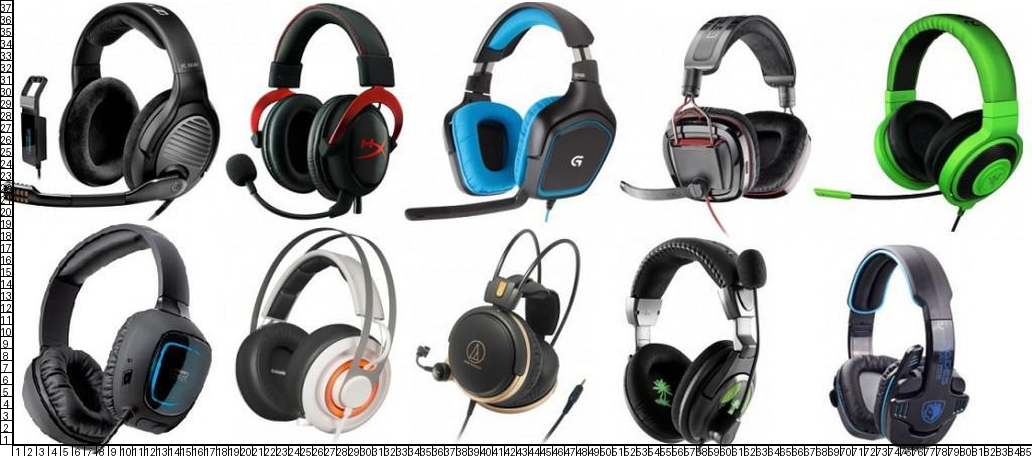
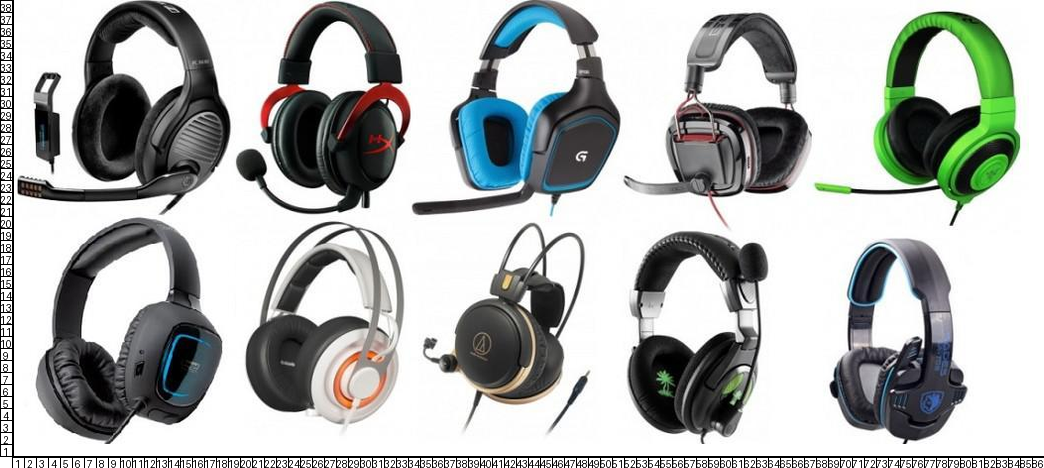
add padding

diff --git a/collab_sketch_with_label.py b/collab_sketch_with_label.py
@@ -1173,6 +1173,7 @@ class SketchApp:
     def _fit_image_to_canvas(self, img: Image.Image, mode: str = "fit", bgcolor=(255, 255, 255)) -> Image.Image:
         """
         Place `img` onto a canvas of size self.grid_size without distortion.
+        Positions image with cell_size padding from left and bottom edges.
 
         mode:
         - "fit"   : letterbox (contain) — keep all of the image, pad with bgcolor
@@ -1183,32 +1184,49 @@ class SketchApp:
         img = ImageOps.exif_transpose(img)  # respect EXIF orientation
         W, H = self.grid_size
         iw, ih = img.size
+        
+        # Calculate available space for image (excluding padding areas)
+        available_width = W - (self.cell_size + self.cell_size)  # Subtract left padding + header
+        available_height = H - (self.cell_size + self.cell_size)  # Subtract bottom padding + header
 
         if mode == "stretch":
-            return img.resize((W, H), Image.LANCZOS).convert("RGB")
+            # Resize to available space and position with padding
+            canvas = Image.new("RGB", (W, H), bgcolor)
+            resized = img.resize((available_width, available_height), Image.LANCZOS).convert("RGB")
+            canvas.paste(resized, (self.cell_size, 0))  # Left padding, top aligned
+            return canvas
 
         if mode == "center":
             canvas = Image.new("RGB", (W, H), bgcolor)
-            x = (W - iw) // 2
-            y = (H - ih) // 2
+            # Center within available space, then add padding offset
+            x = self.cell_size + (available_width - iw) // 2
+            y = (available_height - ih) // 2
             canvas.paste(img.convert("RGB"), (x, y))
             return canvas
 
         if mode == "fill":
-            s = max(W / iw, H / ih)          # cover
+            # Scale to fill available space
+            s = max(available_width / iw, available_height / ih)
             nw, nh = int(round(iw * s)), int(round(ih * s))
             im = img.resize((nw, nh), Image.LANCZOS)
-            x0 = (nw - W) // 2
-            y0 = (nh - H) // 2
-            return im.crop((x0, y0, x0 + W, y0 + H)).convert("RGB")
+            
+            canvas = Image.new("RGB", (W, H), bgcolor)
+            # Center the scaled image within available space, then add padding offset
+            x0 = (nw - available_width) // 2
+            y0 = (nh - available_height) // 2
+            cropped = im.crop((x0, y0, x0 + available_width, y0 + available_height))
+            canvas.paste(cropped.convert("RGB"), (self.cell_size, 0))
+            return canvas
 
-        # default "fit" (letterbox)
-        s = min(W / iw, H / ih)              # contain
+        # default "fit" (letterbox) - preserve aspect ratio within available space
+        s = min(available_width / iw, available_height / ih)
         nw, nh = int(round(iw * s)), int(round(ih * s))
         im = img.resize((nw, nh), Image.LANCZOS)
+        
         canvas = Image.new("RGB", (W, H), bgcolor)
-        x = (W - nw) // 2
-        y = (H - nh) // 2
+        # Center within available space, then add padding offset
+        x = self.cell_size + (available_width - nw) // 2
+        y = (available_height - nh) // 2
         canvas.paste(im.convert("RGB"), (x, y))
         return canvas
 
@@ -1672,7 +1690,7 @@ class SketchApp:
 # =========================
 def calculate_dynamic_grid_size(image_width: int, image_height: int, cell_size: int = 12, min_grid: int = 10, max_grid: int = 100):
     """
-    Calculate optimal grid size based on image dimensions.
+    Calculate optimal grid size based on image dimensions with padding.
     
     Args:
         image_width: Width of the image in pixels
@@ -1684,11 +1702,16 @@ def calculate_dynamic_grid_size(image_width: int, image_height: int, cell_size: 
     Returns:
         tuple: (grid_res_x, grid_res_y, grid_width, grid_height)
     """
-    # Calculate how many cells would fit in each dimension
-    cells_x = max(min_grid, min(max_grid, image_width // cell_size))
-    cells_y = max(min_grid, min(max_grid, image_height // cell_size))
+    # Add one cell width/height of padding to bottom and left
+    # This ensures there's space for grid annotations without overlapping image content
+    padded_width = image_width + cell_size
+    padded_height = image_height + cell_size
     
-    # Keep rectangular grid that matches image aspect ratio
+    # Calculate how many cells would fit in each dimension (including padding)
+    cells_x = max(min_grid, min(max_grid, padded_width // cell_size))
+    cells_y = max(min_grid, min(max_grid, padded_height // cell_size))
+    
+    # Keep rectangular grid that matches image aspect ratio plus padding
     grid_res_x = cells_x
     grid_res_y = cells_y
     
